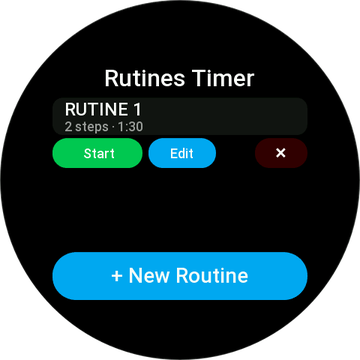
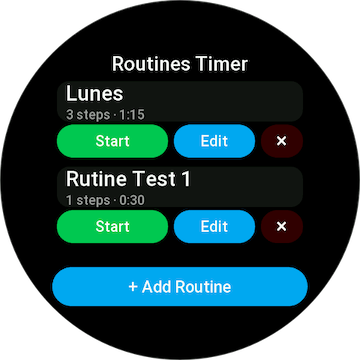
chore(zepp_app): bump version to 1.0.1 for store upload
The console rejects a package whose version code is not strictly higher
than the published one ("安装包版本过低" - installation package version too
low), and the built .zab still carried the initial code 1 / 1.0.0.

- Raise version.code to 2 and version.name to 1.0.1 in app.json
- Keep the package.json version in sync
- Refresh the home store screenshot with the current app UI
- Add the store screenshot for the Add Routine screen
- Document the version bump rule in the publishing guide

Changed region(s): [[0.1222, 0.1528, 0.8556, 0.8556]]

diff --git a/zepp-app-publishing-guide.md b/zepp-app-publishing-guide.md
@@ -19,6 +19,7 @@
 ## 2. Preparar el paquete y assets
 
 - **Paquete ZAB**: Compila tu app con Zeus CLI (`zeus build`) generando el archivo `.zab`. El AppId dentro del paquete debe coincidir exactamente con el registrado.
+- **Versión**: El `version.code` de `app.json` debe ser **estrictamente mayor** que el de la versión ya publicada, y el `version.name` debe cambiar también. Si el código no aumenta, la consola rechaza el paquete con el error *"安装包版本过低"* (versión del paquete de instalación demasiado baja). Sube ambos valores antes de cada `zeus build`.
 - **Icono**: 240×240 px, PNG, fondo transparente, forma circular (sin márgenes alrededor del icono)
 - **Screenshots**: Mínimo 3 imágenes recomendadas de 360×360 px, PNG, fondo transparente:
   - **Pantallas redondas**: screenshot centrado sin márgenes
@@ -66,4 +67,5 @@ Completar información → Submit for Approval → Revisión (1-5 días) → Pub
 
 - El nombre de la app no puede estar ocupado por otra app tuya
 - El nombre de desarrollador mostrado es el nickname de tu cuenta (Account Center → Account Information → Nickname); se actualiza en la tienda tras pasar una revisión
-- Si la plataforma detecta nuevos dispositivos compatibles, adaptará y distribuirá tu Mini Program automáticamente
+- Antes de cada publicación, sube `version.code` y `version.name` en `zepp_app/app.json` y vuelve a ejecutar `npm run build`
+- La plataforma detecta nuevos dispositivos compatibles, adaptará y distribuirá tu Mini Program automáticamente
